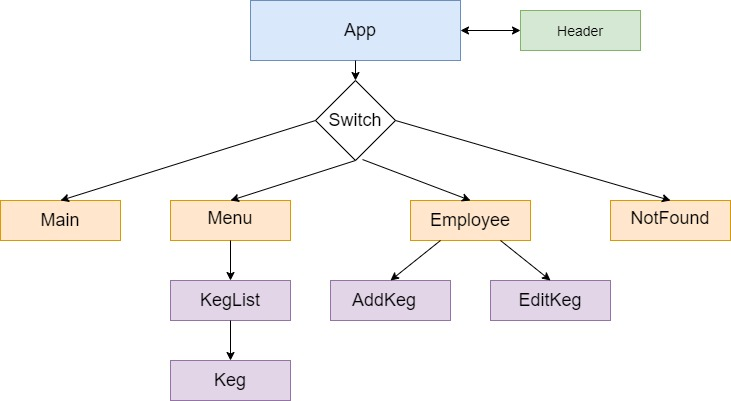
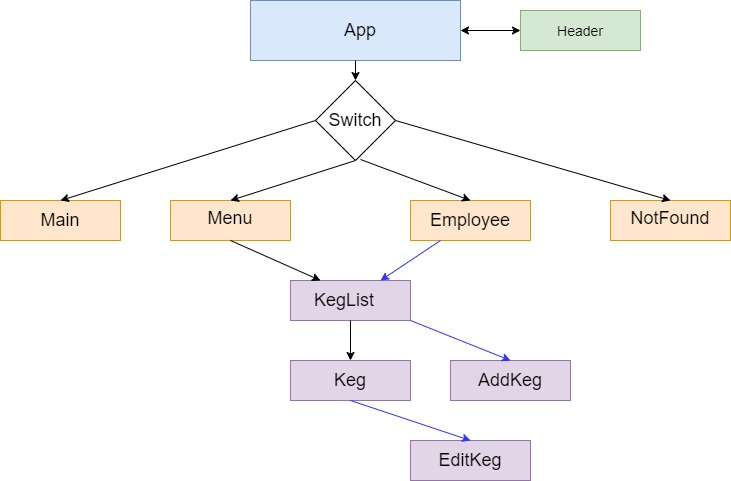
Update diagram and Readme

diff --git a/README.md b/README.md
@@ -6,22 +6,6 @@
 A tap room in React where a bar or kombucha store can track their kegs. 
 
 ## Component Structure
-```
-App
-└── Header     
-│       
-└── Switch
-    └── Main
-    └── Menu
-    |     └── Keg List
-    |     |        └── Keg
-    └── Employee        
-    |    └── Add Keg 
-    |    └── Edit Keg
-    └── Not Found
-```
-
-Diagram:
 
 ![Diagram Flow](./src/assets/images/TapRoom.jpg)
 
@@ -46,14 +30,14 @@ $ npm run start
 
 ## Specs
 
-* As a patron, I want to see a list/menu of all available kegs. For each keg, I need to see its name, brand, price and alcoholContent (or perhaps something like flavor for a kombucha store).
-* As an employee, I want to fill out a form when I tap a new keg to add it to the list. (Don't worry about authenticating employee user accounts yet.)
-* As an employee, I want the option to edit a keg's properties after entering them just in case I make a mistake.
-* As a patron and/or employee, I want to see how many pints are left in a keg. (Hint: A full keg has roughly 124 pints).
-* As an employee, I want to be able to click a button next to a keg whenever I sell a pint of it. This should decrease the number of pints left by 1.
-* As an employee, I want to be able to see kegs with less than 10 pints left so I can be ready to change them.
+* As a patron, I am able to see a list/menu of all available kegs. For each keg, I can to see its name, brand, price, ibu and alcoholContent.
+* As an employee, I am able to fill out a form when I tap a new keg to add it to the list. 
+* As an employee, I am able to edit a keg's properties after entering them just in case I make a mistake.
+* As an employee, I am able to see how many pints are left in a keg. (A full keg has roughly 124 pints).
+* As an employee, I am able to click a button next to a keg whenever I sell a pint of it. This will decrease the number of pints left by 1.
+* As an employee, I am able to see kegs with less than 10 pints left so I can be ready to change them. These kegs are highlighted by red.
 * As a patron, I want to have kegs prices to be color-coded for easy readability. Perhaps based on their price (greater or less than $5 per pint, perhaps) or the particular style of beer or kombucha.
-* As a patron, I want to use the alcohol content property to display stronger beers differently than weaker beers.
+* As a patron, I can see different color of strength depending in the alcohol content property.
 
 ## Known Bugs
 - No known bugs at this time
